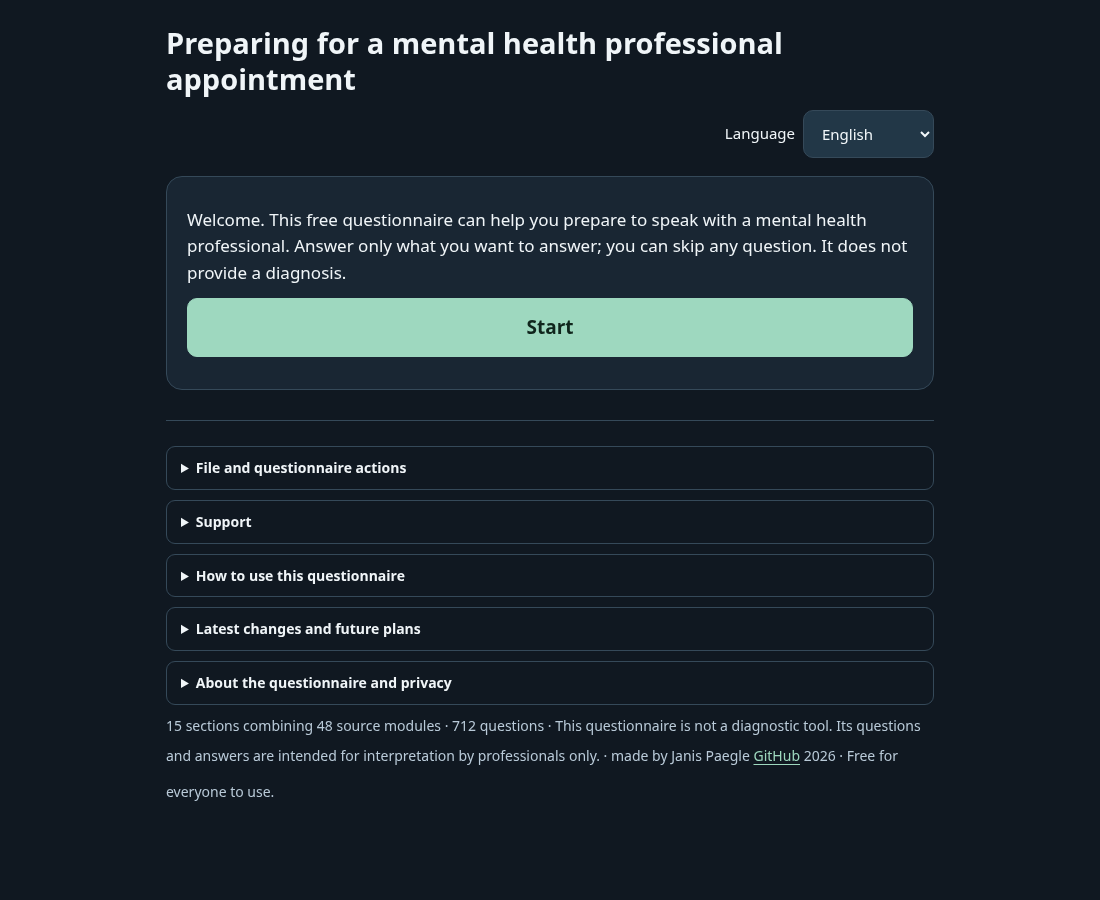
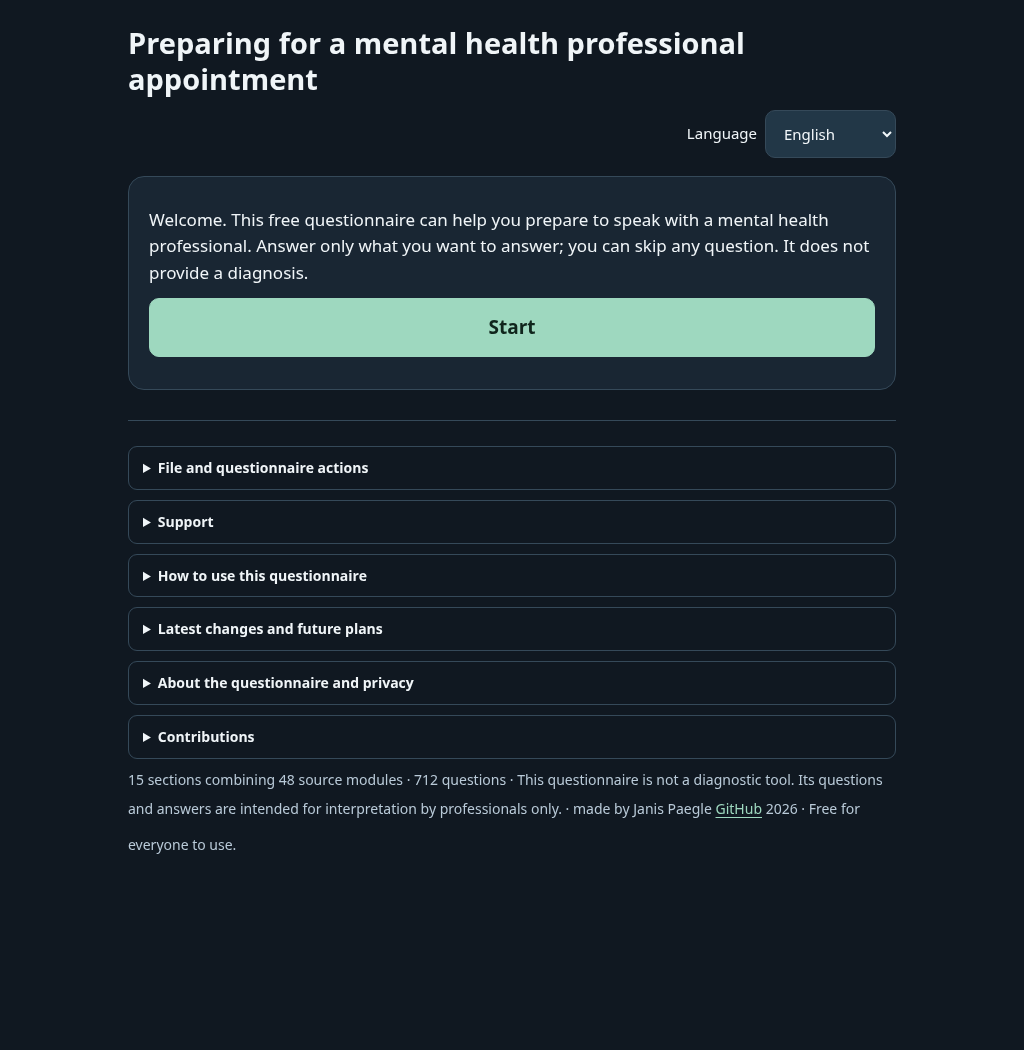
feat: add public sharing, report restart and contributions

diff --git a/src/app/core/app.js b/src/app/core/app.js
@@ -58,7 +58,7 @@ function footer(){
  const updates='<details id="project-updates"><summary>'+label("notesTitle")+'</summary><ol>'+
   ui().notesHistory.map(note=>'<li>'+esc(note)+'</li>').join("")+'</ol><h3>'+label("projectPlans")+'</h3><ul><li>'+
   label("projectPlanReview")+'</li><li>'+label("projectPlanLanguages")+'</li></ul></details>';
- return '<footer><details><summary>'+label("tools")+'</summary>'+toolbar()+'</details><details id="support-details"><summary>'+label("supportMenu")+'</summary>'+supportLinks(true)+'</details><details><summary>'+label("guideTitle")+'</summary><p>'+label("guideBody")+'</p></details>'+updates+'<details id="project-information"><summary>'+label("legal")+'</summary>'+ui().legalBody.split("\n\n").map(text=>'<p>'+esc(text)+'</p>').join("")+'</details><p class="muted">'+label("statusNote")+' · '+label("footer")+' · <span class="creator-credit" lang="en">made by Janis Paegle <a data-project-source href="https://github.com/janisp123/mental-health-questionnaire" target="_blank" rel="noopener noreferrer" referrerpolicy="no-referrer" aria-label="'+label("projectSource")+'" lang="'+esc(state.lang)+'">GitHub</a> 2026</span> · '+label("freeUse")+'</p></footer>';
+ return '<footer><details><summary>'+label("tools")+'</summary>'+toolbar()+'</details><details id="support-details"><summary>'+label("supportMenu")+'</summary>'+supportLinks(true)+'</details><details><summary>'+label("guideTitle")+'</summary><p>'+label("guideBody")+'</p></details>'+updates+'<details id="project-information"><summary>'+label("legal")+'</summary>'+ui().legalBody.split("\n\n").map(text=>'<p>'+esc(text)+'</p>').join("")+'</details><details id="project-contributions"><summary>'+label("contributionsTitle")+'</summary><p>'+label("projectContributors")+'</p><p>'+label("contributionsInvitation")+'</p></details><p class="muted">'+label("statusNote")+' · '+label("footer")+' · <span class="creator-credit" lang="en">made by Janis Paegle <a data-project-source href="https://github.com/janisp123/mental-health-questionnaire" target="_blank" rel="noopener noreferrer" referrerpolicy="no-referrer" aria-label="'+label("projectSource")+'" lang="'+esc(state.lang)+'">GitHub</a> 2026</span> · '+label("freeUse")+'</p></footer>';
 }
 function renderStart(){
  return window.QuestionnaireScreens.start({label,btn});
@@ -134,7 +134,9 @@ function renderReport(){
  const locale=state.reportLang??state.lang;
  const markup=report.doctorMarkup(reportQuestions(),state.answers,locale,data.ui[locale],data.presentation);
  return window.QuestionnaireScreens.reportPage({heading:data.ui[locale].doctorHeading,locale,markup,escape:esc,label,btn,
-  hasFeedback:Object.keys(state.feedback).length>0});
+  hasFeedback:Object.keys(state.feedback).length>0,
+  hasAnswers:report.entries(reportQuestions(),state.answers,locale,data.presentation,data.ui[locale].medicine).length>0,
+  sharing:state.shareOpen?window.QuestionnaireScreens.sharing({text:window.QuestionnaireSharing.copyText(ui()),canShare:typeof navigator.share==="function",label,btn,escape:esc}):""});
 }
 function renderSectionComplete(){
  return '<section class="card"><h2>'+label("sectionCompleteTitle")+'</h2><p>'+label("sectionCompleteBody")+'</p>'+btn("saveAndContinue","saveAndContinue","primary")+btn("continueWithoutSaving","continueWithoutSaving")+'</section>';
@@ -293,6 +295,14 @@ function restore(file){
 function action(key){
  if(["skip","previous","skipSection","end","sections","results","doctor","feedbackReport","resultScreen","back","reviewSafety","new","feedbackContinue"].includes(key))clearPendingSingleAnswer();
  const q=reportQuestions(),u=ui();
+ if(key==="shareQuestionnaire"&&state.screen==="report"&&state.reportView!=="feedback"){
+  state.shareOpen=!state.shareOpen;render();return;
+ }
+ if((key==="nativeShare"||key==="copyQuestionnaire")&&state.screen==="report"&&state.reportView!=="feedback"){
+  const field=document.getElementById("questionnaire-share-copy"),status=document.getElementById("questionnaire-share-status");
+  if(field&&status)window.QuestionnaireSharing.deliver(key==="nativeShare"?"share":"copy",u,{field,status});
+  return;
+ }
  if(key==="support"){state.support="support";state.focusSupport=true;render();window.scrollTo(0,0);return;}
  if(key==="dismissSupport"){state.support=null;render();return;}
  if(key==="start"){start();return;}
@@ -352,11 +362,14 @@ function action(key){
   }return;}
  if(key==="new"){
    if(window.confirm(u.newConfirm)){
-     const lang=state.lang;state={lang,screen:"start",currentId:null,answers:{},feedback:{},feedbackOpen:false,selected:[],sectionDraft:[],sectionConfirmed:false,notice:"",draft:null};render();
+     const lang=state.lang;state={lang,screen:"start",currentId:null,answers:{},feedback:{},feedbackOpen:false,selected:[],sectionDraft:[],sectionConfirmed:false,notice:"",draft:null};render();window.scrollTo(0,0);
    }return;
  }
  if(key==="backup"){downloadBackup();state.notice=u.backupSaved;render();return;}
- if(key==="print"&&state.screen==="report")window.print();
+ if(key==="print"&&state.screen==="report"){
+  const locale=state.reportLang??state.lang;
+  if(state.reportView==="feedback"||report.entries(q,state.answers,locale,data.presentation,data.ui[locale].medicine).length)window.print();
+ }
 }
 function singleAnswer(code){
  const q=current();if(!q||q.multi||q.type==="shortText")return;

diff --git a/src/app/reports/reports.js b/src/app/reports/reports.js
@@ -33,12 +33,13 @@ function entries(questions,answers,locale,presentation,medicine) {
   const rec=answers[q.id],t=q.translations[locale],rule=presentation.questions?.[q.id]||{};
   const title=rule.labels?.[locale]||t.title;
   const medicineText=rec.kind==="medicine"?medicineValues(rec,medicine||{}):"";
-  const choices=rec.kind==="text"?[{text:rec.value||"—",bold:false}]:rec.kind==="medicine"?[{text:medicineText,bold:false}]:(rec.codes||[]).map(code=>({text:t.choices[code]||code,bold:(presentation.boldAnswers?.[q.id]||[]).includes(code)}));
+  const choices=rec.kind==="text"?[{text:rec.value||"",bold:false}]:rec.kind==="medicine"?[{text:medicineText,bold:false}]:(rec.codes||[]).map(code=>({text:t.choices[code]||code,bold:(presentation.boldAnswers?.[q.id]||[]).includes(code)}));
   const prefix=title+(t.time?" ("+t.time+")":"")+": ";
   const value=choices.map(c=>c.text).join("; ");
+  if(!value.trim())return null;
   const response=choices.map(c=>c.bold?"<strong>"+esc(c.text)+"</strong>":esc(c.text)).join("; ");
   return {id:q.id,index,topic:Math.max(0,order.indexOf(q.module)),plain:prefix+value,html:"<p>"+esc(prefix)+response+"</p>"};
- }).sort((a,b)=>a.topic-b.topic||a.index-b.index);
+ }).filter(Boolean).sort((a,b)=>a.topic-b.topic||a.index-b.index);
 }
 function feedbackEntries(questions,feedback,catalogs) {
  const byId=new Map(questions.map(q=>[q.id,q]));
@@ -71,20 +72,21 @@ function identityText(ui,identity={}) {
  return ui.reportName+": "+(name||"____________________________")+"\n"+ui.reportDate+": ____________________";
 }
 function countText(counts,ui) {
- return [ui.reportCountSelected+": "+counts.selected,ui.reportCountDone+": "+counts.answered,ui.reportCountSkip+": "+counts.skipped].join(" · ");
+ return ui.reportCountIncluded+": "+counts;
 }
 function doctorText(questions,answers,locale,ui,presentation,identity={}) {
- const counts=counters(questions,answers);
  const responses=entries(questions,answers,locale,presentation,ui.medicine).map(e=>e.plain);
- return [identityText(ui,identity),"",ui.doctorHeading,ui.doctorDisclaimer,countText(counts,ui),ui.coverageNote,"",...responses].join("\n");
+ if(!responses.length)return ui.reportEmpty;
+ return [identityText(ui,identity),"",ui.doctorHeading,ui.doctorDisclaimer,countText(responses.length,ui),ui.omissionNote,"",...responses].join("\n");
 }
 function doctorMarkup(questions,answers,locale,ui,presentation,identity={}) {
- const counts=counters(questions,answers);
+ const items=entries(questions,answers,locale,presentation,ui.medicine);
+ if(!items.length)return '<p class="report-empty">'+esc(ui.reportEmpty)+'</p>';
  const name=[identity.name,identity.surname].map(value=>String(value||"").trim()).filter(Boolean).join(" ");
  const nameValue=name?esc(name):'<span class="write-in"></span>';
  const dateHtml='<p><strong>'+esc(ui.reportDate)+':</strong> <span class="write-in write-in-date"></span></p>';
- const summary="<p class=\"report-counts\">"+esc(countText(counts,ui))+"</p><p>"+esc(ui.coverageNote)+"</p>";
- const responses=entries(questions,answers,locale,presentation,ui.medicine).map(e=>e.html.replace(/\n/g,"<br>")).join("");
+ const summary="<p class=\"report-counts\">"+esc(countText(items.length,ui))+"</p><p>"+esc(ui.omissionNote)+"</p>";
+ const responses=items.map(e=>e.html.replace(/\n/g,"<br>")).join("");
  return '<div class="report-identity"><p><strong>'+esc(ui.reportName)+':</strong> '+nameValue+'</p>'+dateHtml+'</div><h1>'+esc(ui.doctorHeading)+'</h1><p>'+esc(ui.doctorDisclaimer)+'</p>'+summary+'<hr>'+responses;
 }
 function doctorHtml(questions,answers,locale,ui,presentation,identity={}) {

diff --git a/tests/full_bank/test_reports.js b/tests/full_bank/test_reports.js
@@ -20,9 +20,16 @@ for(const lang of Object.keys(data.ui)){
  assert(!html.includes('Synthetic wording note'));
  assert(!/M06_02|\[B\]|\bweight\b|risk score/i.test(plain));
  assert(!/Unanswered|Nav atbildēts|Без ответа/i.test(plain));
- assert(plain.includes(data.ui[lang].reportCountSelected+': '+qs.length));
- assert(plain.includes(data.ui[lang].reportCountDone+': 5'));
- assert(plain.includes(data.ui[lang].reportCountSkip+': 1'));
+ assert(plain.includes(data.ui[lang].reportCountIncluded+': 5'));
+ assert(!plain.includes(data.ui[lang].reportCountSelected+':'));
+ assert(!plain.includes(data.ui[lang].reportCountSkip+':'));
+ assert(plain.includes(data.ui[lang].omissionNote));
+ assert(!plain.includes(data.ui[lang].coverageNote));
+ for(const code of ['A','C','D']){
+  const answer={M04_01:{kind:'choice',codes:[code],status:q('M04_01').answerStatus[code]}};
+  const text=r.doctorText(qs,answer,lang,data.ui[lang],data.presentation);
+  assert(text.includes(q('M04_01').translations[lang].choices[code]),'No, uncertain and refused choices stay in report');
+ }
  assert(plain.includes(data.ui[lang].reportName+': __________'));
  assert(plain.includes(data.ui[lang].reportDate+': ______'));
  assert(!plain.includes(q('M02_20').translations[lang].title));
@@ -51,3 +58,5 @@ assert(emptyFeedback.includes('janis.paegle.email@gmail.com'));
 const html=cp.execFileSync('python',['-c','import sys;sys.path.insert(0,"tools");from build_questionnaire import make_html;print(make_html())'],{encoding:'utf8',maxBuffer:8e6});
 for(const word of ['Prepare answers for AI','Copy coded answers for AI','DECODING KEY','aiInstruction','copyAI'])assert(!html.includes(word),word);
 console.log('PASS: clinician answers and project feedback stay separate; localized reports preserve order and explicit emphasis.');
+
+assert.equal(r.entries(qs,{M33_01:{kind:'text',value:'   '}},'en',data.presentation).length,0,'Blank restored text is omitted');

diff --git a/docs/discovery-preview/index.html b/docs/discovery-preview/index.html
@@ -4,7 +4,7 @@
   <meta charset="utf-8">
   <meta name="viewport" content="width=device-width, initial-scale=1">
   <title>Free offline mental-health questionnaire: depression questions and appointment preparation</title>
-  <meta name="description" content="Prepare for a mental-health appointment with a free offline questionnaire for adults: 712 questions, 15 optional sections, four languages and a PDF summary. Not clinically validated.">
+  <meta name="description" content="Prepare for a mental-health appointment with a free offline questionnaire for adults: 712 questions, 15 optional sections, multilanguage support and a PDF summary. Not clinically validated.">
   <!-- Unpublished preview. Add a canonical only after the owner approves the actual publication URL. -->
   <style>
     :root { color-scheme: light; font-family: system-ui, sans-serif; color: #20343b; background: #f6f8f7; line-height: 1.65; }
@@ -80,7 +80,7 @@
       <p>Optional questions also cover anxiety, attention and activity difficulties, social and sensory experiences, changes in mood and energy, sleep, medicines, substance use and safety. Answers are a starting point for discussion; they cannot establish whether you have ADHD, autism, bipolar disorder or another condition.</p>
     </section>
     <section id="languages" aria-labelledby="languages-title">
-      <h2 id="languages-title">Four languages in one file</h2>
+      <h2 id="languages-title">Multilanguage questionnaire in one file</h2>
       <p>Latvian is the reference and initial language. English, Russian and Ukrainian translations are drafts pending human review. The clinician report language can be chosen independently of the questionnaire language.</p>
       <div lang="lv">
         <h3>Jautājumi, lai sagatavotos vizītei pie psihiatra vai psihoterapeita</h3>

diff --git a/tests/app/test_report_screens.js b/tests/app/test_report_screens.js
@@ -29,11 +29,13 @@ assert.match(results,/data-act="doctor"[^>]*>Generate report<\/button>/);
 assert.match(results,/<select id="report-language"><option value="lv">Latviešu<\/option><\/select>/);
 
 const report = screens.reportPage({
-  heading:"Doctor report",locale:"lv",markup:"<p>Synthetic report</p>",btn,escape,
+  heading:"Doctor report",locale:"lv",markup:"<p>Synthetic report</p>",btn,escape,label,
 });
 assert.match(report,/Synthetic report/);
 assert.match(report,/class="report-preview" lang="lv"/);
 assert.match(report,/data-act="print"/);
+assert.match(report,/data-act="new"/);
+assert.match(report,/data-act="shareQuestionnaire"/);
 assert.match(report,/data-act="back"/);
 assert.match(report,/data-act="sections"/);
 assert.match(report,/data-act="resultScreen"/);
@@ -41,7 +43,7 @@ assert.doesNotMatch(report,/data-act="feedbackReport"/);
 assert.doesNotMatch(report,/data-act="copyDoctor"|data-act="downloadReport"|<textarea/);
 
 const flaggedReport = screens.reportPage({
-  heading:"Doctor report",locale:"lv",markup:"<p>Synthetic report</p>",btn,escape,hasFeedback:true,
+  heading:"Doctor report",locale:"lv",markup:"<p>Synthetic report</p>",btn,escape,label,hasFeedback:true,
 });
 assert.match(flaggedReport,/data-act="feedbackReport"/);
 
@@ -57,3 +59,8 @@ assert.match(feedback,/data-act="print"/);
 assert.match(feedback,/data-act="doctor"/);
 
 console.log("PASS: one Generate report action; only flagged clinician reports offer project feedback.");
+
+const empty=screens.reportPage({heading:"Doctor report",locale:"en",markup:"No answers",btn,escape,label,hasAnswers:false});
+assert.doesNotMatch(empty,/data-act="print"/);
+assert.match(empty,/data-act="back"/);
+assert.match(empty,/data-act="new"/);

diff --git a/src/app/screens/report-page.js b/src/app/screens/report-page.js
@@ -2,7 +2,7 @@
 (function (root) {
 "use strict";
 const screens = root.QuestionnaireScreens = root.QuestionnaireScreens || {};
-screens.reportPage = function ({heading,locale,markup,escape,btn,label,feedbackEmail,hasFeedback,feedbackText="",canSend=false}) {
+screens.reportPage = function ({heading,locale,markup,escape,btn,label,feedbackEmail,hasFeedback,hasAnswers=true,sharing="",feedbackText="",canSend=false}) {
  const preview='<div class="report-preview'+(feedbackEmail?' feedback-report':'')+'" lang="'+escape(locale)+'">'+markup+'</div>';
  const print=btn("print","print","primary-inline");
  if(feedbackEmail){
@@ -16,8 +16,9 @@ screens.reportPage = function ({heading,locale,markup,escape,btn,label,feedbackE
    preview+'</section>';
  }
  return '<section class="card report report-page"><h2>'+escape(heading)+'</h2>'+
- '<div class="actions report-actions">'+print+(hasFeedback?btn("feedbackReport","feedbackProjectReport"):"")+'</div>'+
+ '<div class="actions report-actions">'+(hasAnswers?print:"")+(hasFeedback?btn("feedbackReport","feedbackProjectReport"):"")+'</div>'+
  '<div class="actions report-actions">'+btn("resultScreen","results")+btn("back","backToAnswers")+btn("sections","editSections")+'</div>'+
+ '<div class="actions report-actions">'+btn("new","new")+btn("shareQuestionnaire","shareQuestionnaire")+'</div>'+sharing+
  preview+'</section>';
 };
 })(globalThis);

diff --git a/src/app/core/sharing.js b/src/app/core/sharing.js
@@ -1,0 +1,24 @@
+/* Public questionnaire invitation only. No session, report or saved-data inputs. */
+(function(root){
+"use strict";
+const url="https://janisp123.github.io/mental-health-questionnaire/";
+function content(ui){return {title:ui.shareTitle,text:ui.shareMessage,url};}
+function copyText(ui){return ui.shareMessage+"\n"+url;}
+async function deliver(kind,ui,{field,status}){
+ const select=()=>{field.focus();field.select();};
+ try{
+  if(kind==="share"){
+   if(typeof root.navigator.share!=="function")throw Error("Share unavailable");
+   await root.navigator.share(content(ui));status.textContent=ui.shareReady;
+  }else{
+   select();
+   if(typeof root.navigator.clipboard?.writeText!=="function")throw Error("Clipboard unavailable");
+   await root.navigator.clipboard.writeText(copyText(ui));status.textContent=ui.shareCopied;
+  }
+ }catch(error){
+  if(kind==="share"&&error?.name==="AbortError"){status.textContent=ui.shareCancelled;return;}
+  select();status.textContent=ui.shareCopyHelp;
+ }
+}
+root.QuestionnaireSharing={content,copyText,deliver};
+})(globalThis);

diff --git a/src/app/screens/sharing.js b/src/app/screens/sharing.js
@@ -1,0 +1,11 @@
+/* Selectable public invitation and deliberate device/copy actions; hidden in print. */
+(function(root){
+"use strict";
+const screens=root.QuestionnaireScreens=root.QuestionnaireScreens||{};
+screens.sharing=function({text,canShare,label,btn,escape}){
+ return '<section id="questionnaire-sharing" class="report-actions"><h3>'+label("shareQuestionnaire")+'</h3><p>'+label("sharePrivacy")+'</p>'+
+  '<label for="questionnaire-share-copy">'+label("shareCopyHelp")+'</label><textarea id="questionnaire-share-copy" readonly rows="6">'+escape(text)+'</textarea>'+
+  '<div class="actions">'+(canShare?btn("nativeShare","shareOnDevice"):"")+btn("copyQuestionnaire","copyShareMessage")+'</div>'+
+  '<p id="questionnaire-share-status" role="status" aria-live="polite"></p></section>';
+};
+})(globalThis);

diff --git a/src/app/styles/reports.css b/src/app/styles/reports.css
@@ -13,3 +13,5 @@
  }
 }
 @media print{.report-page{border:0;border-radius:0;padding:0;margin:0;background:#fff;color:#111}.report-page>h2,.report-actions{display:none!important}.report-preview{display:block;border:0;border-radius:0;padding:0}}
+
+#questionnaire-sharing textarea{width:100%;box-sizing:border-box;min-height:130px;resize:vertical;font:inherit;overflow-wrap:anywhere}

diff --git a/tests/app/test_runtime_sharing.py b/tests/app/test_runtime_sharing.py
@@ -1,0 +1,72 @@
+"""Public-only sharing, empty reports and confirmed reset; synthetic data only."""
+import sys,tempfile
+from pathlib import Path
+from playwright.sync_api import sync_playwright
+sys.path.insert(0,str(Path(__file__).resolve().parents[1]/'full_bank'))
+from browser_helpers import act,backup,launch,open_page,restore
+from runtime_fixture import write_fixture,LOCALES
+
+URL='https://janisp123.github.io/mental-health-questionnaire/'
+with tempfile.TemporaryDirectory() as tmp,sync_playwright() as pw:
+ path=Path(tmp)/'sharing.html';write_fixture(path);browser=launch(pw)
+ for locale in LOCALES:
+  page,errors,network=open_page(browser,path)
+  page.select_option('#language',locale)
+  data=page.locator('#questionnaire-data').evaluate('e=>JSON.parse(e.textContent)');ui=data['ui'][locale]
+  contributions=page.locator('#project-contributions')
+  assert contributions.is_visible(),'Contributions must stay visible even without names'
+  contributions.locator('summary').click()
+  assert ui['projectContributors'] in contributions.inner_text()
+  assert ui['contributionsInvitation'] in contributions.inner_text()
+  assert 'test@example.invalid' not in contributions.inner_text()
+  payload={'schema':'mental-pilot-recovery-v1','version':'synthetic-test','layoutVersion':data['layout_version'],'lang':locale,'selected':['S01'],'sectionConfirmed':True,'currentId':'SYN_01','answers':{'SYN_01':{'kind':'choice','codes':['B'],'status':'answered'}},'feedback':{'SYN_01':{'reasons':['question'],'comment':'PRIVATE_FEEDBACK_SENTINEL','language':'en','version':'synthetic-test','updatedAt':'2026-11-15T06:00:00Z'}}}
+  restore(page,payload);act(page,'results');act(page,'doctor')
+  assert page.locator('[data-act="print"]').is_visible()
+  assert 'Single choice' in page.locator('.report-preview').inner_text()
+  # Cancel reset: existing answers and report survive.
+  page.evaluate('window.confirm=()=>false');act(page,'new')
+  assert 'Single choice' in page.locator('.report-preview').inner_text()
+  page.evaluate("window.shared=[];window.copied=[];Object.defineProperty(navigator,'share',{configurable:true,writable:true,value:async value=>{window.shared.push(value)}});Object.defineProperty(navigator,'clipboard',{configurable:true,value:{writeText:async value=>{window.copied.push(value)}}})")
+  act(page,'shareQuestionnaire')
+  field=page.locator('#questionnaire-share-copy');text=field.input_value()
+  assert text==ui['shareMessage']+'\n'+URL
+  for private in ('PRIVATE_FEEDBACK_SENTINEL','SYN_01','Option B','synthetic-test'):assert private not in text
+  assert page.evaluate('window.shared.length+window.copied.length')==0,'Opening must not transmit or copy'
+  act(page,'nativeShare');page.wait_for_timeout(30)
+  assert page.evaluate('window.shared')==[{'title':ui['shareTitle'],'text':ui['shareMessage'],'url':URL}]
+  act(page,'copyQuestionnaire');page.wait_for_timeout(30)
+  assert page.evaluate('window.copied')==[text]
+  assert page.locator('#questionnaire-share-status').inner_text()==ui['shareCopied']
+  page.evaluate("()=>{navigator.share=()=>Promise.reject(new DOMException('cancel','AbortError'));}")
+  act(page,'nativeShare');page.wait_for_timeout(30)
+  assert page.locator('#questionnaire-share-status').inner_text()==ui['shareCancelled']
+  page.evaluate("()=>{navigator.share=()=>Promise.reject(new Error('blocked'));navigator.clipboard.writeText=()=>Promise.reject(new Error('blocked'));}")
+  act(page,'nativeShare');page.wait_for_timeout(30)
+  assert page.locator('#questionnaire-share-status').inner_text()==ui['shareCopyHelp']
+  act(page,'copyQuestionnaire');page.wait_for_timeout(30)
+  assert field.evaluate('(e)=>document.activeElement===e && e.selectionEnd===e.value.length')
+  assert page.locator('#questionnaire-share-status').inner_text()==ui['shareCopyHelp']
+  page.evaluate("Object.defineProperty(navigator,'share',{configurable:true,value:undefined});Object.defineProperty(navigator,'clipboard',{configurable:true,value:undefined})")
+  act(page,'shareQuestionnaire');act(page,'shareQuestionnaire')
+  assert page.locator('[data-act="nativeShare"]').count()==0
+  act(page,'copyQuestionnaire')
+  assert field.evaluate('(e)=>e.selectionEnd===e.value.length')
+  assert page.evaluate('document.documentElement.scrollWidth <= innerWidth')
+  page.emulate_media(media='print')
+  assert not page.locator('#questionnaire-sharing').is_visible()
+  assert not page.locator('[data-act="new"]').is_visible()
+  page.emulate_media(media='screen')
+  page.evaluate('window.confirm=()=>true');act(page,'new')
+  assert page.locator('[data-act="start"]').is_visible()
+  assert page.locator('#language').input_value()==locale
+  saved=backup(page)
+  assert saved['answers']=={} and saved['feedback']=={} and saved['selected']==[]
+  act(page,'results');act(page,'doctor')
+  assert page.locator('[data-act="print"]').count()==0
+  assert ui['reportEmpty'] in page.locator('.report-preview').inner_text()
+  assert page.locator('[data-act="back"]').is_visible()
+  assert not errors,errors
+  assert not network,network
+  page.close()
+ browser.close()
+print('PASS: localized public-only sharing/copy fallbacks, no automatic transmission, print isolation, empty reports, consented reset and visible contributions.')

diff --git a/tests/full_bank/test_runtime.py b/tests/full_bank/test_runtime.py
@@ -255,9 +255,9 @@ with tempfile.TemporaryDirectory() as tmp, sync_playwright() as pw:
     assert data["ui"]["lv"]["doctorHeading"] in report
     assert question_by_id["M23_01"]["translations"]["lv"]["choices"]["B"] in report
     assert question_by_id["M23_01"]["translations"]["en"]["title"] not in report
-    assert data["ui"]["lv"]["reportCountSelected"] in report
-    assert data["ui"]["lv"]["reportCountDone"] in report
-    assert data["ui"]["lv"]["reportCountSkip"] in report
+    assert data["ui"]["lv"]["reportCountIncluded"] in report
+    assert data["ui"]["lv"]["omissionNote"] in report
+    assert data["ui"]["lv"]["coverageNote"] not in report
     assert "Synthetic question note" not in report
     assert page.locator("#reportText").count() == 0
     assert page.locator('[data-act="print"]').count() == 1

diff --git a/tests/app/test_runtime_counts.py b/tests/app/test_runtime_counts.py
@@ -24,8 +24,9 @@ with tempfile.TemporaryDirectory() as tmp,sync_playwright() as pw:
   def clinician(expected,report_locale):
    page.select_option('#report-language',report_locale);act(page,'doctor')
    report=page.locator('.report-preview').inner_text();r=data['ui'][report_locale]
-   for label,value in zip(('reportCountSelected','reportCountDone','reportCountSkip'),expected):assert r[label]+': '+str(value) in report
-   assert r['coverageNote'] in report
+   assert r['reportCountIncluded']+': '+str(expected[1]) in report
+   assert r['reportCountSelected']+':' not in report and r['reportCountSkip']+':' not in report
+   assert r['omissionNote'] in report and r['coverageNote'] not in report
    return report
   complete_answers=dict(answers)
   del answers['SYN_03']
